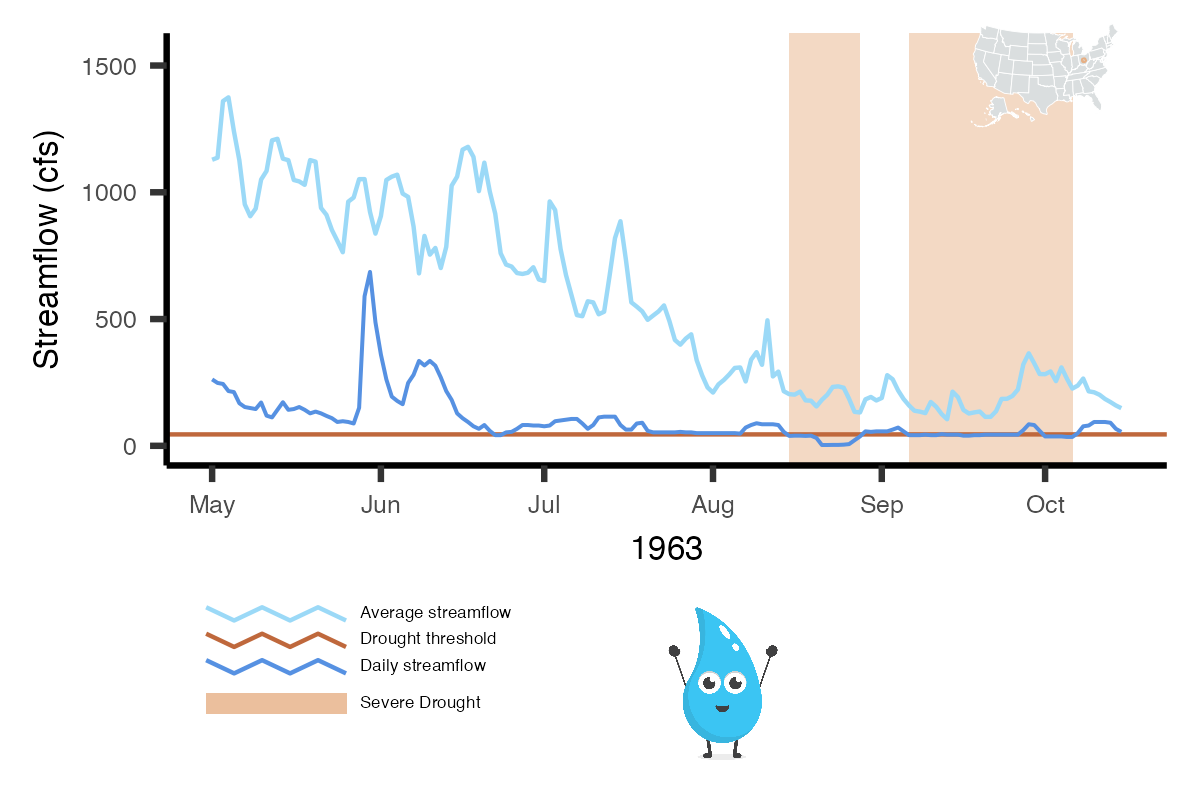
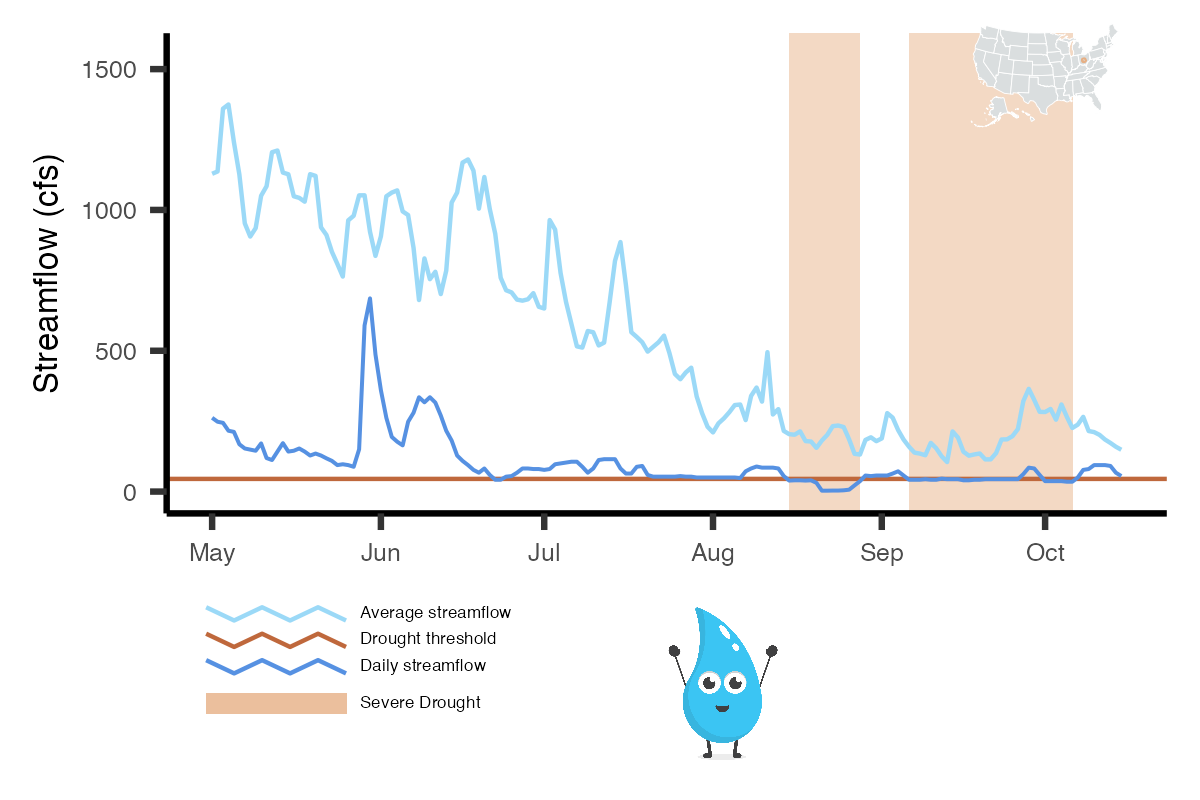
remove year on x axis

diff --git a/src/components/DroughtThresholds.vue b/src/components/DroughtThresholds.vue
@@ -272,7 +272,7 @@ img {
   max-height: 700px;
     max-width: 1000px;
     opacity: 0;
-    widtH: 65vw;
+    width: 65vw;
 }
 
 // stacking all images and using toogleClass to change visibility with scrolling
@@ -286,14 +286,14 @@ img {
 }
 .chart-container {
   //background-position: top;
-  height: 90vh;
+  height: 85vh;
   max-height: 700px;
   width: 50vw;
   position: relative;
   top:10vh;
   left: 0vh;
   margin-bottom: 5%;
-  max-width: 1000px;
+  max-width: 800px;
 }
 // currently empty scoll-by divs used to trigger animation
 .scrolly {
@@ -315,5 +315,4 @@ img {
 .unstuck {
   position: relative;
 }
-
 </style>
